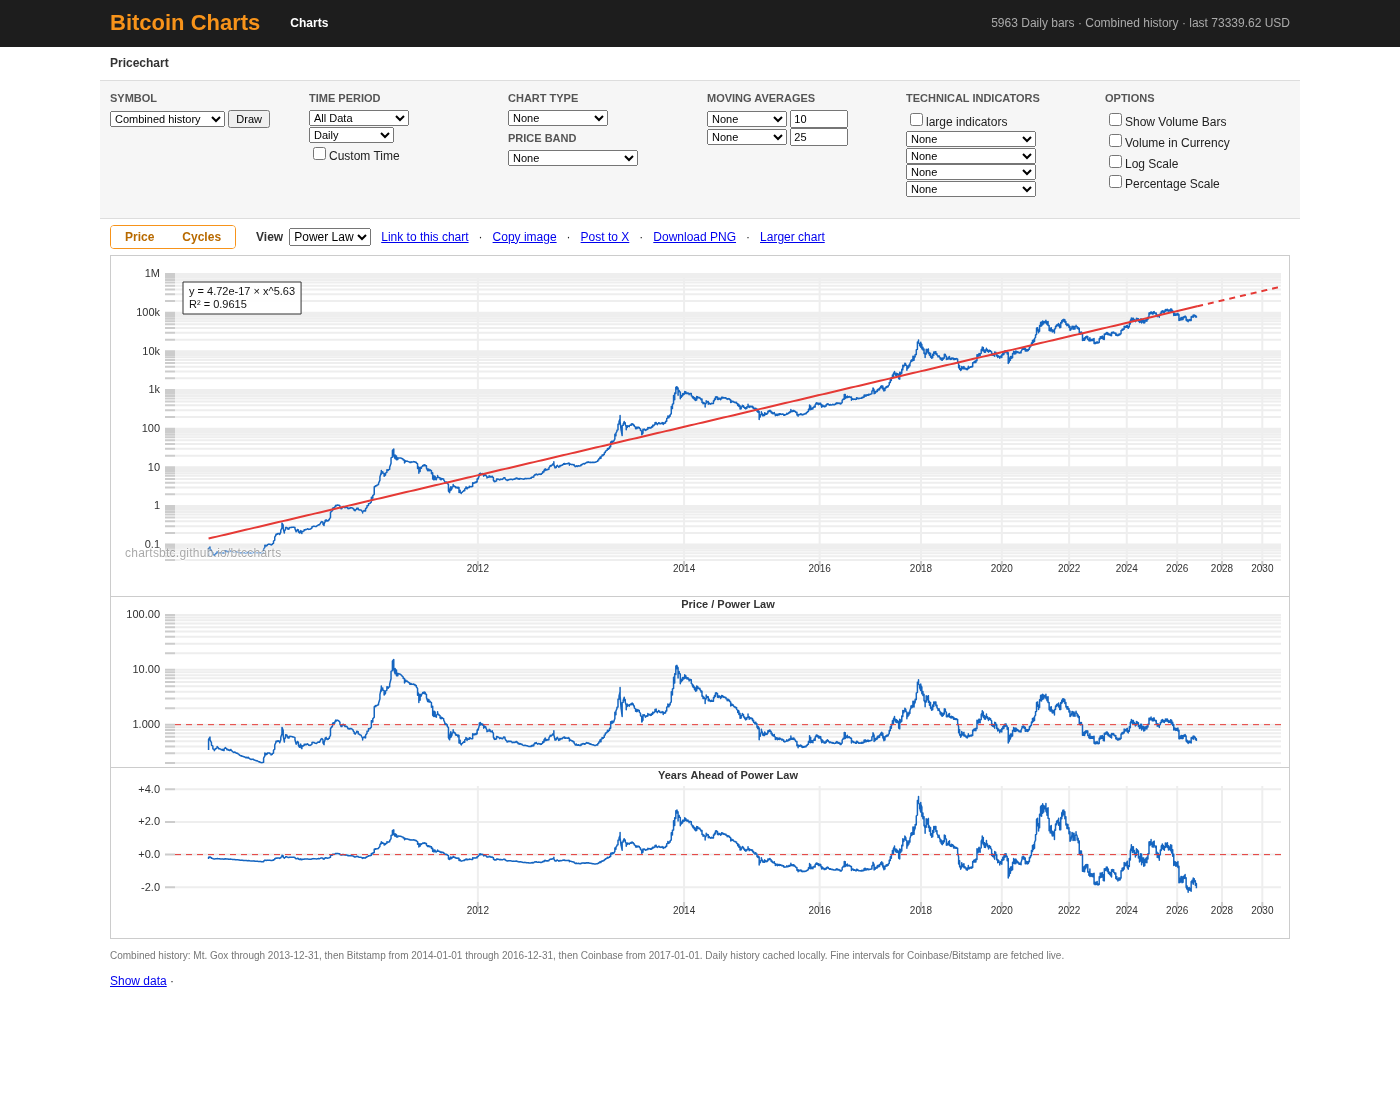
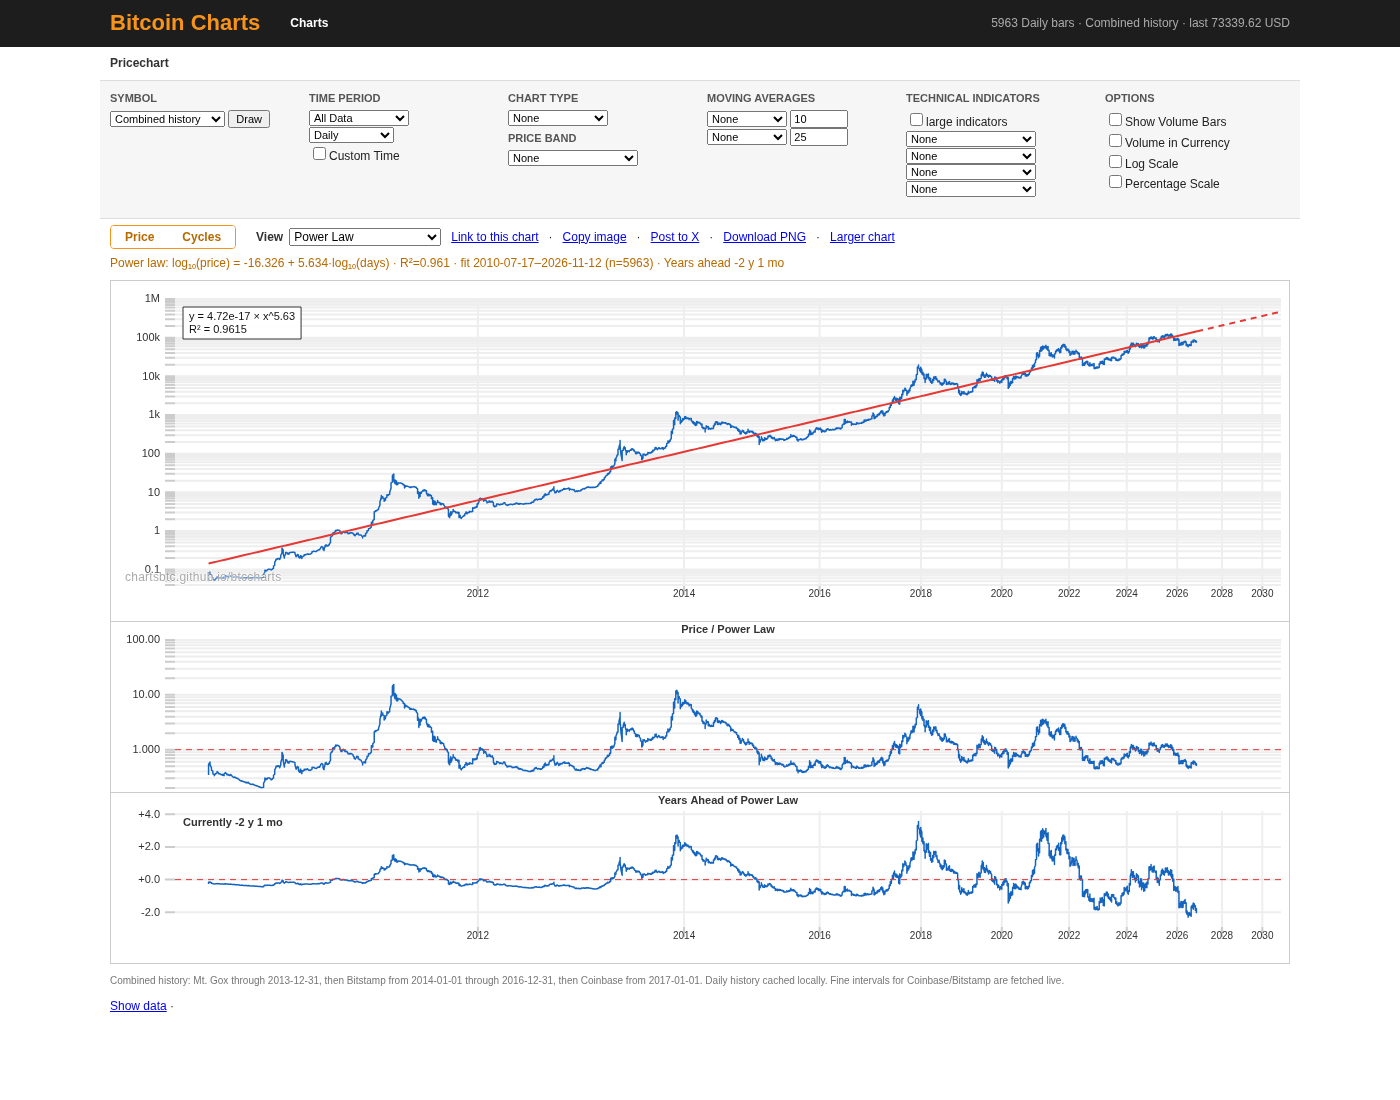
Show Years Ahead of Power Law in years and months.
The metric is the closed-form inversion of the shown fit
(days* = 10^((log10(price)-a)/b), then (days* - days)/365.25).
Hover, the chart legend, the years-ahead panel, and the Post to X
caption now report the value as e.g. -2 y 1 mo.

diff --git a/scout.js b/scout.js
@@ -242,9 +242,22 @@ let scoutPlots=[];
 const YEAR_2030=(Date.UTC(2030,11,31)/1000);
 function daysTo2030(){return (YEAR_2030-GENESIS)/86400}
 function yearsAheadOfPowerLaw(d,price,fit){
+  // Closed-form inversion of the shown fit: days* = 10^((log10(price)-a)/b).
+  // Positive = price ahead of the power law; negative = behind/below it.
   if(!(d>0)||!(price>0)||!fit||!fit.b) return null;
   const dStar=Math.pow(10,(Math.log10(price)-fit.a)/fit.b);
   return (dStar-d)/365.25;
+}
+function formatYearsMonths(years){
+  if(years==null||!isFinite(years)) return '';
+  const neg=years<0;
+  const abs=Math.abs(years);
+  let y=Math.floor(abs+1e-9);
+  let mo=Math.round((abs-y)*12);
+  if(mo===12){y+=1;mo=0}
+  const sign=neg?'-':(years>0?'+':'');
+  if(y===0&&mo===0) return '0 y 0 mo';
+  return sign+y+' y '+mo+' mo';
 }
 function powerLawEquation(fit){
   if(!fit) return '';
@@ -357,7 +370,6 @@ function renderPowerLawView(){
   $('charts').classList.remove('has-volume');
   const sample=bars.filter(b=>b&&b.close>0);
   const fit=fitPowerLaw(sample);
-  setPlLegend(fit);
   const ratio=computeRatio(bars,'pl');
   if(!fit){status('Not enough data for a power law fit.');return}
   const xs=[],ys=[],ratioY=[],aheadY=[],barAt=[];
@@ -373,6 +385,14 @@ function renderPowerLawView(){
   const xMin=xs[0]*0.92, xMax=Math.max(xs[xs.length-1],daysTo2030());
   const eq=powerLawEquation(fit);
   window.lastPowerFit=fit;
+  const yaNow=aheadY.at(-1);
+  window.lastYearsAhead=yaNow;
+  const yaText=formatYearsMonths(yaNow);
+  const el=$('plLegend');
+  if(el){
+    el.hidden=false;
+    el.textContent=powerLawLegendText(fit)+'   ·   Years ahead  '+yaText;
+  }
 
   const main=$('main');
   main.innerHTML='';
@@ -456,7 +476,19 @@ function renderPowerLawView(){
   });
   makeScoutUplot(aHost,xs,aheadY,{
     xMin,xMax,xLabels:true,yLinear:true,stroke:'#1565c0',title:'Years Ahead of Power Law',
-    onDraw:(u,pr)=>drawHLine(u,pr,0,'#e53935'),
+    onDraw:(u,pr)=>{
+      drawHLine(u,pr,0,'#e53935');
+      if(yaText){
+        const ctx=u.ctx;
+        ctx.save();
+        ctx.font='bold '+(11*pr)+'px Verdana,Arial,sans-serif';
+        ctx.fillStyle='#333';
+        ctx.textAlign='left';
+        ctx.textBaseline='top';
+        ctx.fillText('Currently '+yaText, u.bbox.left+8*pr, u.bbox.top+6*pr);
+        ctx.restore();
+      }
+    },
     yFormat:v=> (v>=0?'+':'')+v.toFixed(1),
   });
 
@@ -474,7 +506,7 @@ function renderPowerLawView(){
     const b=barAt[i], d=xs[i];
     const bits=[isoUTC(b.time),'day '+d.toFixed(0),'$'+usd(b.close)];
     if(ratioY[i]!=null) bits.push('Price/PL '+formatRatioValue(ratioY[i]));
-    if(aheadY[i]!=null) bits.push('Years ahead '+(aheadY[i]>=0?'+':'')+aheadY[i].toFixed(2));
+    if(aheadY[i]!=null) bits.push('Years ahead '+formatYearsMonths(aheadY[i]));
     $('legend').textContent=bits.join('  ·  ');
   };
   scoutPlots.forEach(u=>u.setCursor&&null);
@@ -482,7 +514,7 @@ function renderPowerLawView(){
   // Listen on mousemove of each root.
   scoutPlots.forEach(u=>{
     u.root.addEventListener('mousemove',()=>setLeg(u));
-    u.root.addEventListener('mouseleave',()=>{$('legend').textContent=''});
+    u.root.addEventListener('mouseleave',()=>{$('legend').textContent=yaText?'Years ahead  '+yaText:''});
   });
 }
 
@@ -530,6 +562,7 @@ window.renderScout=renderScout;
 window.clearScoutPlots=clearScoutPlots;
 window.composeScoutImage=composeScoutImage;
 window.yearsAheadOfPowerLaw=yearsAheadOfPowerLaw;
+window.formatYearsMonths=formatYearsMonths;
 window.powerLawEquation=powerLawEquation;
 
 

diff --git a/app.js b/app.js
@@ -274,7 +274,7 @@ function drawPowerLawUplot(u,xs,barAt){
 }
 
 let plSeries={};
-function clearCharts(){charts.forEach(c=>c.remove());charts=[];plSeries={};if(uplot){try{uplot.destroy()}catch(e){} uplot=null}if(typeof clearScoutPlots==='function')clearScoutPlots();if($('main'))$('main').querySelectorAll('.uplot').forEach(n=>n.remove());$('subs').innerHTML='';document.body.classList.remove('loglog-view','scout-view','scout-powerlaw','scout-drawdown','scout-ath','scout-sats');if(typeof setEpochLegend==='function')setEpochLegend(false);window.lastRatio=null}
+function clearCharts(){charts.forEach(c=>c.remove());charts=[];plSeries={};if(uplot){try{uplot.destroy()}catch(e){} uplot=null}if(typeof clearScoutPlots==='function')clearScoutPlots();if($('main'))$('main').querySelectorAll('.uplot').forEach(n=>n.remove());$('subs').innerHTML='';document.body.classList.remove('loglog-view','scout-view','scout-powerlaw','scout-drawdown','scout-ath','scout-sats');if(typeof setEpochLegend==='function')setEpochLegend(false);window.lastRatio=null;if($('plLegend')&&!($('pl')&&$('pl').checked)){$('plLegend').hidden=true;$('plLegend').textContent=''}}
 
 async function draw(pushUrl){
   const hash=buildHash();
@@ -966,7 +966,7 @@ function shareCaption(){
       bits.push('Last $'+Number(last.close).toLocaleString('en-US',{maximumFractionDigits:0})+' on '+isoUTC(last.time));
       const d=daysSinceGenesis(last.time);
       const ya=window.lastPowerFit?yearsAheadOfPowerLaw(d,last.close,window.lastPowerFit):null;
-      if(ya!=null) bits.push('Years ahead '+(ya>=0?'+':'')+ya.toFixed(2));
+      if(ya!=null) bits.push('Years ahead '+(typeof formatYearsMonths==='function'?formatYearsMonths(ya):(ya>=0?'+':'')+ya.toFixed(2)));
     }
     return bits.join('. ')+'.';
   }
